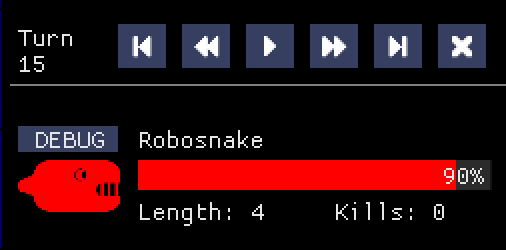
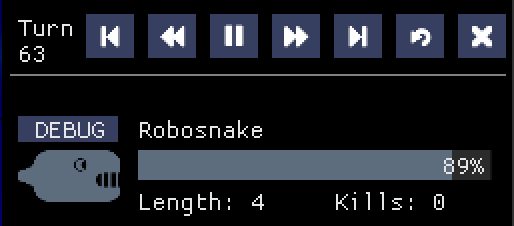
Version 3.1

diff --git a/README.md b/README.md
@@ -116,6 +116,7 @@ You can use the playback controls at the top right of the game window, while a g
 * The "Play/Pause" button will pause and resume game playback (do note that pausing will only pause the UI, the game will continue to run in the background).
 * The "Fast Forward" button will step forward one turn.
 * The "Last" button will jump to the last turn of the game.
+* The "Rematch" button will end the current game and start a new game with the same options.
 * The "Close" button will end the current game and return to the main menu.
 
 The "Debug" button located above each snake preview will copy the JSON data that was sent to that snake on the last turn, and that snake's response, to the clipboard.
@@ -124,8 +125,8 @@ You can also hover over a snake's preview image to see their latency for the cur
 
 ## Configuration
 <p align="center">
-	<img src="readme_screenshots/options1.png" width="300">
-	<img src="readme_screenshots/options2.png" width="300">
+	<img src="readme_screenshots/options1.png" width="400">
+	<img src="readme_screenshots/options2.png" width="400">
 </p>
 
 ### Appearance
@@ -137,15 +138,17 @@ You can also hover over a snake's preview image to see their latency for the cur
 	* This changes the color of hazard tiles on the game board (note: you cannot set the transparancy value because these tiles fade in and out).
 * Fullscreen
 	* This toggles full-screen mode.
-* Bloom Filter
-	* This enables a [bloom filter](https://en.wikipedia.org/wiki/Bloom_(shader_effect)), which brightens and blurs snakes at the cost of performance.
 * Vignette
 	* This enables a [vignette](https://en.wikipedia.org/wiki/Vignette_(graphic_design)), which shades the background at the cost of performance.
-	* The radius, opacity, and softness of the vignette can be adjusted.
-* Fade Tails
-	* This fades out snake tails rather than have every square of the snake be opaque. Looks nice and doesn't affect performance, but can make it hard to tell living and dead snakes apart.
+	* The radius, opacity, softness, and color of the vignette can be adjusted.
+* Bloom Filter
+	* This enables a [bloom filter](https://en.wikipedia.org/wiki/Bloom_(shader_effect)), which brightens and blurs snakes at the cost of performance.
 * Animations
 	* This enables animations, specifically, making food spin and hazards fade in and out. They can be disabled for a small performance boost.
+* Fade Tails
+	* This fades out snake tails rather than have every square of the snake be opaque. Looks nice and doesn't affect performance, but can make it hard to tell living and dead snakes apart.
+* Curve on Turns
+	* This will draw snake bodies using curves when they make turns on the game board. Doesn't impact performance.
 
 ### Audio
 * Enable Music
@@ -308,7 +311,7 @@ Extra special thanks to:
 
 ## License
 Mojave  
-Copyright ©2017-2021 Scott Small
+Copyright ©2017-2021 Scott Small and contributors
 
 This program is free software: you can redistribute it and/or modify
 it under the terms of the [GNU General Public License](LICENSE) as published by

diff --git a/CHANGELOG.md b/CHANGELOG.md
@@ -1,5 +1,10 @@
 ## CHANGELOG
 
+### v3.1 (2021-02-24)
+
+* Snakes are now drawn with curves when turning. This is configurable via a new appearance option. Thank you to [Nettogrof](https://github.com/nettogrof/) for contributing this feature!
+* Added a rematch button to the in-game controls that when pressed starts a new game with the same options as the current game.
+
 ### v3.0 (2021-02-22)
 
 Mojave 3.0 is a significant rewrite, much like 2.0 was. There are many changes, the notable ones are listed below:
